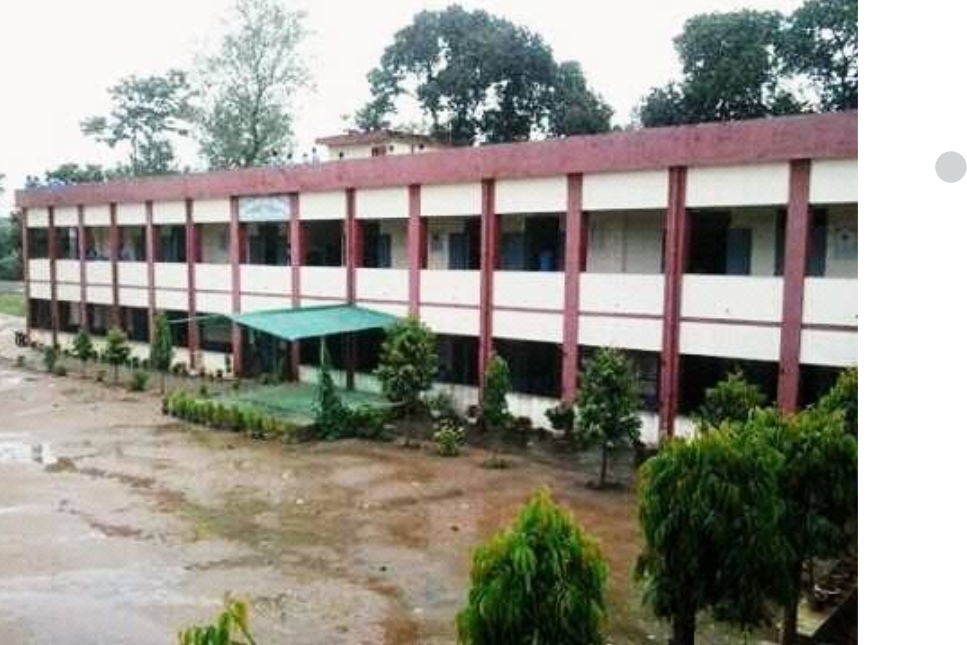
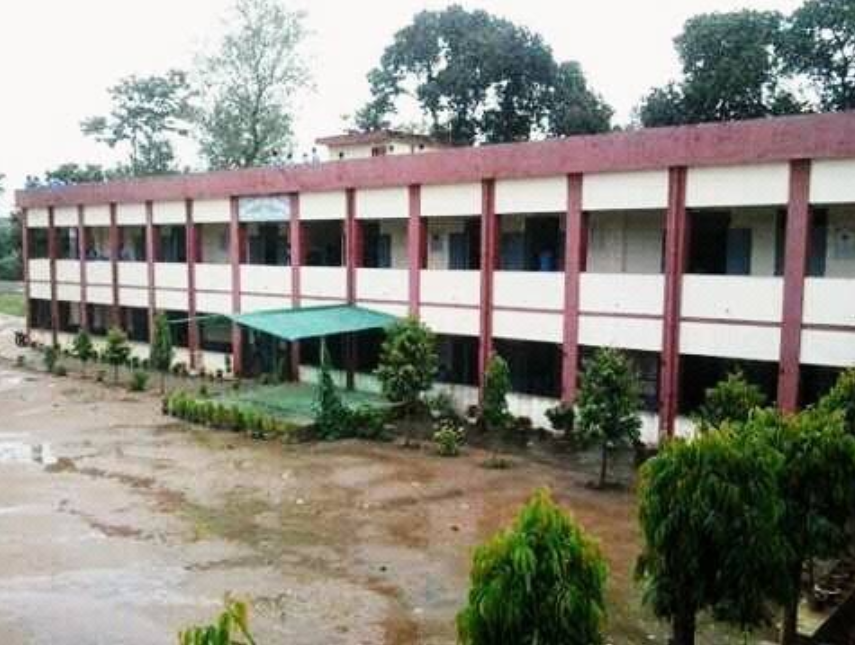
Made responsive for small mobile screen.

diff --git a/index.html b/index.html
@@ -8,8 +8,7 @@
     <link rel="stylesheet" href="https://cdnjs.cloudflare.com/ajax/libs/font-awesome/7.3.1/css/all.min.css" integrity="sha512-QeR2VH+lsBE5LSAe1Q5EnTBbe7XTBubt8dG93Y7gidSgdMCr8nVqKcfKAMyN96SV8KDbZVTDXChatu5G2KQGzg==" crossorigin="anonymous" referrerpolicy="no-referrer" />
     <link rel="stylesheet" href="style.css">
     <link rel="stylesheet" href="animation.css">
-    <link rel="stylesheet" href="mediaquery.css">
-    <!-- <link rel="stylesheet" href="mode.css"> -->
+    <link rel="stylesheet" href="mediaquery.css">.
 </head>
 <body>
     <header>
@@ -57,10 +56,10 @@
     <main> 
         <section id="home" class="hero-container">
             <div class="hero-image hero-image-animation">
-                <img src="images/file_00000000b4ec82118c60ffb60ebc1afe-Photoroom.png" alt="image">
+                <img src="images/file_00000000b4ec82118c60ffb60ebc1afe-Photoroom.png" alt="image" style="--i: 1 ">
             </div>
             <div class="hero-content hero-content-animation">
-                <p class="hero-content-name" style="--i: 1">hi,&nbsp;<span>bhimkant</span>&nbsp;here.<span class="auto-type"></span></p>
+                <p style="--i: 1">hi,&nbsp;<span>bhimkant</span>&nbsp;here.<span class="auto-type"></span></p>
                 <p style="--i: 2">Software engineer focused on building web applications and solving problems through code. I build clean, practical, and user-friendly applications across the stack, from responsive interfaces to reliable backend systems. I enjoy learning by building real-world projects and turning ideas into working software.</p>
                 
                 <div class="hero-btn" style="--i: 3">
@@ -75,10 +74,10 @@
             <h1 style="--i: 1" class="about-title">/ about <span>me</span></h1>
             <div class="about-content">  
                 <div class="about-content-info">
-                    <p>I am currently focused on becoming a stronger Software Engineer, where I build real-world web applications and strengthen my foundations in software development. I enjoy working across the stack, from creating responsive interfaces to building backend services, APIs, and database-driven applications.</p>
+                    <p style="--i: 2">I am currently focused on becoming a stronger Software Engineer, where I build real-world web applications and strengthen my foundations in software development. I enjoy working across the stack, from creating responsive interfaces to building backend services, APIs, and database-driven applications.</p>
 
-                    <p>Here are some technologies I have been working with:</p>
-                    <div class="technical-skills">
+                    <p style="--i: 3">Here are some technologies I have been working with:</p>
+                    <div class="technical-skills" style="--i: 4">
                         <p style="--i: 4" ># Tech Stack</p>
                         <div style="--i: 5" class="tech-stack">
                             <button class="stack-btn">HTML</button>
@@ -103,7 +102,7 @@
                             <button class="stack-btn">Database Management System(Basics)</button>
                         </div>
                     </div>                    
-                    <p>I learn best by building real-world projects rather than just following tutorials. I enjoy exploring new technologies, solving problems through code, and continuously improving my understanding of software engineering, DSA, and system design.</p>
+                    <p style="--i: 5">I learn best by building real-world projects rather than just following tutorials. I enjoy exploring new technologies, solving problems through code, and continuously improving my understanding of software engineering, DSA, and system design.</p>
                 </div> 
                 <div class="about-content-image">
                     <img src="images/DSC_9931~2 (2).jpeg" alt="my-image">
@@ -345,7 +344,6 @@
                             <a href=""><i class="fa-brands fa-square-github"></i></a>
                             <a href=""><i class="fa-brands fa-square-linkedin"></i></a>
                         </div>    
-
                     </div>
                     <div class="contact-right">
                         <form action="" name="submit-to-google-sheet">

diff --git a/mediaquery.css b/mediaquery.css
@@ -111,6 +111,8 @@
         justify-content: center;
         align-items: start;
     }   
+
+
     
     .stat h1 {
         font-weight: 400;
@@ -243,6 +245,10 @@
 }
 
 @media (max-width: 400px) {
+    section {
+        padding: 18% 5% 0%;
+    }
+
     body, .btn {
         font-size: 0.75rem;
     }
@@ -258,7 +264,24 @@
 
     .hero-content p:nth-child(1) {
         font-size: 1.9rem;
-        margin: 2rem 0rem;
+        margin: 1.5rem 0rem;
+    }
+
+    
+    .about-title {
+        text-align: center;
+        margin-bottom: 1.5rem;
+    }
+
+    
+    .about-content-info p:nth-child(2), 
+    .about-content-info p:nth-child(4) {
+        margin-top: 0.5rem;
+    }
+
+    
+    .technical-skills {
+        margin-bottom: 0.5rem;
     }
 
     .stack-btn {
@@ -296,6 +319,14 @@
 
     .layer div a i {
         font-size: 0.75rem;
+    }
+        
+    .contact-left {
+        line-height: 3rem;
+    }
+
+    .social-icons {
+        margin: 1rem 0 1rem;
     }
 
     .social-icons a {

diff --git a/animation.css b/animation.css
@@ -17,11 +17,11 @@
 
 .hero-image-animation {
     opacity: 0;
-    animation: zoomBounce 2s ease-in-out forwards;
+    animation: zoomBounce1 2s ease-in-out forwards;
     animation-delay: 0.5s;
 }
 
-@keyframes zoomBounce {
+@keyframes zoomBounce1 {
     0% {
         opacity: 0;
         transform: scale(0.5) rotate(-40deg);
@@ -37,11 +37,11 @@
 
 .navbar span a {
     opacity: 0;
-    animation: zoomBounce 2s ease-in-out forwards;
+    animation: zoomBounce2 2s ease-in-out forwards;
     animation-delay: 0.5s;
 }
 
-@keyframes zoomBounce {
+@keyframes zoomBounce2 {
     0% {
         opacity: 0;
     }

diff --git a/style.css b/style.css
@@ -48,7 +48,7 @@ header {
     background: rgba(8, 29, 44, 0.5);
     backdrop-filter: blur(5px);
     z-index: 1000;
-    position: sticky;
+    position: fixed;
     top: 0;
 }
 
@@ -266,7 +266,7 @@ header .navbar ul li a:hover::after, header .navbar ul li a.active::after {
 
 /* Section */
 section {
-    padding: 9% 5% 0%;
+    padding: 8% 5% 0%;
     position: relative;
 }
 
@@ -285,8 +285,8 @@ section {
 }
 
 .hero-image img{
-    width: 90%;
-    height: 90%; 
+    width: 80%;
+    height: 80%; 
     backdrop-filter: blur(2px);
 }
 
